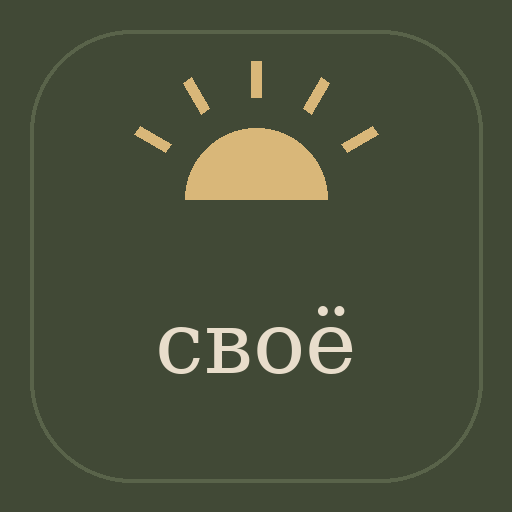
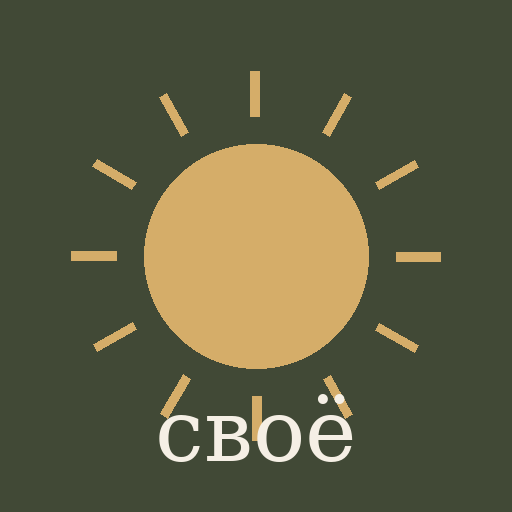
Add files via upload

diff --git a/index.html b/index.html
@@ -1,80 +1,31 @@
 <!doctype html>
 <html lang="ru">
 <head>
-  <meta charset="utf-8">
-  <meta name="viewport" content="width=device-width, initial-scale=1, viewport-fit=cover">
-  <meta name="theme-color" content="#414936">
-  <meta name="apple-mobile-web-app-capable" content="yes">
-  <meta name="apple-mobile-web-app-status-bar-style" content="black-translucent">
-  <meta name="apple-mobile-web-app-title" content="СВОЁ">
-  <link rel="manifest" href="manifest.webmanifest">
-  <link rel="apple-touch-icon" href="icons/icon-192.png">
-  <title>СВОЁ</title>
-  <style>
-    :root{--wine:#642F3D;--olive:#414936;--ochre:#A97835;--beige:#E8DDCB;--ivory:#F5EFE5;--ink:#302923;--muted:#81796f}
-    *{box-sizing:border-box} body{margin:0;background:var(--ivory);color:var(--ink);font-family:-apple-system,BlinkMacSystemFont,"Segoe UI",sans-serif}
-    header{background:var(--olive);color:var(--ivory);padding:calc(18px + env(safe-area-inset-top)) 20px 20px;border-radius:0 0 24px 24px}
-    .brand{font-family:Georgia,serif;font-size:34px;letter-spacing:.04em;margin:0}.tag{color:#e4d9c8;font-size:13px;margin-top:5px}
-    main{padding:18px 16px 100px;max-width:720px;margin:auto}.date{color:var(--muted);font-size:13px;margin:4px 2px 14px}
-    h2{font-family:Georgia,serif;font-size:25px;font-weight:500;margin:8px 0 14px}
-    h3{font-size:16px;margin:0 0 10px}.card{background:#fffaf2;border:1px solid #e9dfd1;border-radius:18px;padding:16px;margin:12px 0;box-shadow:0 3px 14px #34271a0a}
-    .muted{color:var(--muted);font-size:13px;line-height:1.45}.choices{display:flex;flex-wrap:wrap;gap:8px}
-    button,.chip{border:1px solid #d9cebf;background:#fffaf2;color:var(--ink);border-radius:999px;padding:10px 13px;font:inherit;font-size:13px}
-    button.selected{background:var(--wine);border-color:var(--wine);color:white}
-    .primary{background:var(--wine);color:white;border:0;font-weight:600;padding:12px 16px}
-    input{width:100%;border:1px solid #d9cebf;background:#fffaf2;border-radius:12px;padding:13px;font:inherit;font-size:15px;margin:8px 0}
-    .task{display:flex;align-items:center;gap:10px;padding:11px 0;border-bottom:1px solid #eee5d9}.task:last-child{border:0}
-    .task input{width:19px;height:19px;margin:0;accent-color:var(--wine)}.task.done span{text-decoration:line-through;color:#9b9388}
-    nav{position:fixed;bottom:0;left:0;right:0;background:#fffaf2;border-top:1px solid #e6dccf;padding:9px 8px calc(9px + env(safe-area-inset-bottom));display:flex;justify-content:space-around;gap:4px;z-index:3}
-    nav button{border:0;background:transparent;padding:7px 5px;color:#766d62;border-radius:12px;font-size:11px;display:flex;flex-direction:column;align-items:center;gap:4px}
-    nav button.active{color:var(--wine);background:#f1e6e2;font-weight:700}nav b{font-size:18px;font-weight:500}
-    .hidden{display:none}.section-intro{line-height:1.5}.sun{color:#d7b66f;font-size:22px;float:right}
-  </style>
-</head>
-<body>
-<header><span class="sun">☼</span><p class="brand">своё</p><div class="tag">Живи в своём ритме.</div></header>
-<main>
-  <section id="today">
-    <div class="date" id="todayDate"></div><h2>Мой день</h2>
-    <div class="card"><h3>Сколько у тебя сегодня сил?</h3><p class="muted">План начинается не со списка дел, а с внимания к себе.</p><div class="choices" id="energy">
-      <button data-v="Почти нет сил">Почти нет</button><button data-v="Мало сил">Мало</button><button data-v="Умеренно">Умеренно</button><button data-v="Хорошо">Хорошо</button><button data-v="Много сил">Много</button>
-    </div></div>
-    <div class="card"><h3>Что ты сейчас чувствуешь?</h3><div class="choices" id="mood">
-      <button data-v="Спокойствие">Спокойствие</button><button data-v="Радость">Радость</button><button data-v="Воодушевление">Воодушевление</button><button data-v="Нейтрально">Нейтрально</button><button data-v="Тревога">Тревога</button><button data-v="Грусть">Грусть</button><button data-v="Раздражение">Раздражение</button><button data-v="Опустошённость">Опустошённость</button><button data-v="Не могу определить">Не могу определить</button>
-    </div></div>
-    <div class="card"><h3>Твои дела</h3><div class="muted">Добавляй только то, что действительно важно сегодня. Отдых тоже имеет место.</div>
-      <form id="taskForm"><input id="taskInput" placeholder="Например, отправить заказ…" maxlength="100" required><button class="primary" type="submit">Добавить дело</button></form><div id="tasks"></div>
-    </div>
-    <div class="card" style="background:var(--olive);color:var(--ivory);border:0"><h3>И немного своего времени</h3><p class="section-intro">Тебе не нужно заслуживать отдых. Оставь в сегодняшнем дне место для того, что радует.</p></div>
-  </section>
-  <section id="calendar" class="hidden"><h2>Календарь</h2><div class="card section-intro">Здесь будут события, встречи и дела, привязанные ко времени. В этой первой сборке раздел пока подготовлен как основа.</div></section>
-  <section id="home" class="hidden"><h2>Дом</h2><div class="card section-intro">Уборка, готовка, покупки и хозяйство — гибкие дела, которые можно упрощать и переносить.</div></section>
-  <section id="health" class="hidden"><h2>Здоровье и движение</h2><div class="card section-intro">Прогулки, растяжка, йога и движение с учётом самочувствия.</div></section>
-  <section id="me" class="hidden"><h2>Время для себя</h2><div class="card" style="background:var(--olive);color:var(--ivory);border:0"><h3>Это время принадлежит тебе</h3><p>Чтение, рисование, прогулка для удовольствия, рукоделие или просто тишина.</p></div></section>
-  <section id="creative" class="hidden"><h2>Творчество</h2><div class="card section-intro">Твои идеи, творческие проекты и обучение.</div></section>
-  <section id="habits" class="hidden"><h2>Привычки</h2><div class="card section-intro">Небольшие повторяющиеся действия без наказания за пропуски.</div></section>
-  <section id="challenges" class="hidden"><h2>Мои челленджи</h2><div class="card section-intro">Челленджи можно облегчить или поставить на паузу. Пропуск не обнуляет прогресс.</div></section>
-  <section id="diary" class="hidden"><h2>Дневник</h2><div class="card"><textarea id="note" rows="5" style="width:100%;border:1px solid #d9cebf;border-radius:12px;padding:12px;font:inherit" placeholder="Что хочется сохранить сегодня?"></textarea><button class="primary" id="saveNote">Сохранить запись</button><p class="muted" id="noteStatus">Запись хранится на этом устройстве.</p></div></section>
-  <section id="alltasks" class="hidden"><h2>Мои задачи</h2><div class="card">Все задачи будут доступны здесь. Сейчас задачи можно добавлять на экране «Мой день».</div></section>
-</main>
-<nav>
-  <button class="active" data-page="today"><b>⌂</b>День</button><button data-page="calendar"><b>▦</b>Календарь</button><button data-page="home"><b>⌂</b>Дом</button><button data-page="me"><b>♡</b>Для себя</button><button data-page="alltasks"><b>☷</b>Задачи</button>
-</nav>
+<meta charset="utf-8"><meta name="viewport" content="width=device-width,initial-scale=1,viewport-fit=cover"><meta name="theme-color" content="#414936"><meta name="description" content="СВОЁ — личная система организации жизни. Живи в своём ритме."><link rel="manifest" href="manifest.webmanifest"><link rel="apple-touch-icon" href="icon-192.png"><title>СВОЁ — Живи в своём ритме</title>
+<style>
+:root{--olive:#414936;--burgundy:#642f3d;--ochre:#a97835;--beige:#e8ddcb;--ivory:#f5efe5;--ink:#292b25;--muted:#77766d;--line:#ddd3c3;--paper:#fbf8f2;--shadow:0 8px 28px #302a2010}*{box-sizing:border-box}body{margin:0;background:var(--paper);color:var(--ink);font-family:-apple-system,BlinkMacSystemFont,"Segoe UI",sans-serif;font-size:16px;line-height:1.45}button,input,select,textarea{font:inherit}button{cursor:pointer}.app{max-width:760px;margin:auto;min-height:100vh;padding-bottom:92px}.top{padding:22px 22px 12px;background:linear-gradient(145deg,var(--olive),#30382c);color:var(--ivory);border-radius:0 0 26px 26px}.brand{display:flex;align-items:center;gap:12px}.sun{font-size:30px;color:#d5ad69}.brandname{font-family:Georgia,serif;font-size:30px;letter-spacing:.04em}.tagline{font-family:Georgia,serif;font-style:italic;color:#e8ddcb;margin:3px 0 0 43px;font-size:15px}.date{font-size:13px;color:#e8ddcbbd;margin-top:18px;letter-spacing:.04em}.content{padding:18px 18px 26px}.page-title{font-family:Georgia,serif;font-weight:500;font-size:29px;margin:5px 0 5px;color:var(--olive)}.subtle{color:var(--muted);font-size:14px}.card{background:#fffdf9;border:1px solid var(--line);border-radius:18px;padding:16px;margin:14px 0;box-shadow:var(--shadow)}.card h2{font:500 20px Georgia,serif;color:var(--olive);margin:0 0 8px}.card h3{font-size:16px;margin:0 0 9px}.eyebrow{font-size:11px;letter-spacing:.13em;text-transform:uppercase;color:var(--ochre);font-weight:700}.chips{display:flex;flex-wrap:wrap;gap:8px}.chip{border:1px solid var(--line);border-radius:999px;padding:8px 12px;background:#fff;color:var(--ink);font-size:14px}.chip.active{background:var(--olive);border-color:var(--olive);color:white}.row{display:flex;align-items:center;justify-content:space-between;gap:12px}.btn{border:0;border-radius:12px;padding:11px 15px;background:var(--olive);color:white;font-weight:600}.btn.secondary{background:#eee8dc;color:var(--olive);border:1px solid var(--line)}.btn.burgundy{background:var(--burgundy)}.btn.small{padding:7px 10px;font-size:13px}.input,select,textarea{width:100%;border:1px solid var(--line);background:#fffdf9;border-radius:11px;padding:12px;color:var(--ink);margin:5px 0 10px}.fieldlabel{display:block;font-size:13px;color:var(--muted);margin-top:8px}.grid2{display:grid;grid-template-columns:1fr 1fr;gap:10px}.task{display:flex;gap:10px;align-items:flex-start;padding:11px 0;border-bottom:1px solid #eee8dd}.task:last-child{border:0}.check{width:21px;height:21px;accent-color:var(--olive);margin-top:2px}.tasktitle{font-weight:600}.taskmeta{font-size:12px;color:var(--muted);margin-top:2px}.done .tasktitle{text-decoration:line-through;color:#999}.pill{font-size:11px;border-radius:99px;padding:3px 8px;background:#eee8dc;color:var(--olive);white-space:nowrap}.timeline{border-left:2px solid var(--line);margin:12px 0 0 8px;padding-left:15px}.timeitem{position:relative;padding:0 0 16px}.timeitem:before{content:"";position:absolute;left:-22px;top:5px;width:10px;height:10px;border-radius:50%;background:var(--ochre);border:2px solid var(--paper)}.empty{padding:16px;text-align:center;color:var(--muted);font-size:14px}.nav{position:fixed;z-index:5;bottom:0;left:0;right:0;background:#fbf8f2f2;backdrop-filter:blur(14px);border-top:1px solid var(--line);display:flex;justify-content:center;padding:8px 5px calc(8px + env(safe-area-inset-bottom));gap:2px}.nav button{border:0;background:transparent;color:var(--muted);font-size:10px;display:flex;flex-direction:column;align-items:center;gap:3px;padding:6px 10px;border-radius:12px;min-width:62px}.nav button span:first-child{font-size:20px}.nav button.active{color:var(--burgundy);background:#642f3d10;font-weight:700}.tabs{display:flex;gap:7px;flex-wrap:wrap;margin:12px 0}.tabs button{border:1px solid var(--line);background:transparent;border-radius:9px;padding:8px 11px;color:var(--muted);font-size:13px}.tabs button.active{background:var(--beige);color:var(--ink);border-color:var(--beige)}.modalback{position:fixed;inset:0;background:#16181277;z-index:10;display:flex;align-items:flex-end;justify-content:center}.modal{background:var(--paper);border-radius:22px 22px 0 0;padding:20px;width:min(100%,700px);max-height:90vh;overflow:auto}.modal h2{font:500 24px Georgia,serif;color:var(--olive);margin:0 0 12px}.close{border:0;background:#eee8dc;border-radius:50%;width:34px;height:34px}.hidden{display:none!important}.notice{background:#f0e8d9;border-left:3px solid var(--ochre);padding:12px;border-radius:8px;font-size:14px}.week{display:grid;grid-template-columns:repeat(7,1fr);gap:5px;text-align:center}.day{border:1px solid var(--line);border-radius:10px;padding:9px 2px;font-size:12px;background:#fff}.day.today{background:var(--olive);color:white;border-color:var(--olive)}.day small{display:block;color:inherit;opacity:.7}.sectionlink{display:flex;justify-content:space-between;align-items:center;padding:14px 2px;border-bottom:1px solid var(--line);color:var(--ink);text-decoration:none}.sectionlink:last-child{border:0}.footer-note{text-align:center;color:var(--muted);font:italic 13px Georgia,serif;margin:24px 0 8px}
+@media(min-width:600px){.content{padding:24px 28px}.top{padding:26px 30px}.modalback{align-items:center}.modal{border-radius:22px}}
+</style></head><body><div class="app"><header class="top"><div class="brand"><span class="sun">☼</span><span class="brandname">своё</span></div><div class="tagline">Живи в своём ритме.</div><div class="date" id="todayDate"></div></header><main class="content" id="view"></main><nav class="nav" id="nav"><button data-page="day" class="active"><span>☼</span><span>Мой день</span></button><button data-page="calendar"><span>▦</span><span>Календарь</span></button><button data-page="tasks"><span>☷</span><span>Мои задачи</span></button><button data-page="life"><span>❧</span><span>Моя жизнь</span></button><button data-page="diary"><span>✎</span><span>Дневник</span></button></nav></div><div id="modalRoot"></div>
 <script>
-const $=s=>document.querySelector(s), $$=s=>[...document.querySelectorAll(s)];
-const store={get(k,d){try{return JSON.parse(localStorage.getItem('svoe_'+k))??d}catch{return d}},set(k,v){localStorage.setItem('svoe_'+k,JSON.stringify(v))}};
-const d=new Date();$('#todayDate').textContent=new Intl.DateTimeFormat('ru-RU',{weekday:'long',day:'numeric',month:'long'}).format(d);
-function restoreChoice(id,key){const v=store.get(key,'');$(`#${id}`).querySelectorAll('button').forEach(b=>b.classList.toggle('selected',b.dataset.v===v))}
-function wireChoice(id,key){$(`#${id}`).addEventListener('click',e=>{if(e.target.dataset.v){store.set(key,e.target.dataset.v);restoreChoice(id,key)}});restoreChoice(id,key)}
-wireChoice('energy','energy');wireChoice('mood','mood');
-let tasks=store.get('tasks',[]);
-function renderTasks(){const el=$('#tasks');el.innerHTML='';tasks.forEach((t,i)=>{const row=document.createElement('label');row.className='task'+(t.done?' done':'');const cb=document.createElement('input');cb.type='checkbox';cb.checked=t.done;cb.addEventListener('change',()=>{tasks[i].done=cb.checked;store.set('tasks',tasks);renderTasks()});const span=document.createElement('span');span.textContent=t.text;row.append(cb,span);el.append(row)})}
-renderTasks();
-$('#taskForm').addEventListener('submit',e=>{e.preventDefault();const v=$('#taskInput').value.trim();if(!v)return;tasks.push({text:v,done:false});store.set('tasks',tasks);$('#taskInput').value='';renderTasks()});
-$('#saveNote').addEventListener('click',()=>{store.set('note',$('#note').value);$('#noteStatus').textContent='Запись сохранена.'});
-$('#note').value=store.get('note','');
-function show(page){$$('main section').forEach(s=>s.classList.toggle('hidden',s.id!==page));$$('nav button').forEach(b=>b.classList.toggle('active',b.dataset.page===page));window.scrollTo(0,0)}
-$$('nav button').forEach(b=>b.addEventListener('click',()=>show(b.dataset.page)));
-if('serviceWorker' in navigator)window.addEventListener('load',()=>navigator.serviceWorker.register('./sw.js').catch(()=>{}));
-</script>
-</body></html>
+const KEY='svoe_v2_state';const defaults={energy:'',mood:'',tasks:[],notes:[],viewMode:'timeline',closedState:false,evening:{}};let state={...defaults,...JSON.parse(localStorage.getItem(KEY)||'{}')};let page='day',lifeSection='';const $=s=>document.querySelector(s);const save=()=>localStorage.setItem(KEY,JSON.stringify(state));const esc=s=>String(s??'').replace(/[&<>"']/g,c=>({'&':'&amp;','<':'&lt;','>':'&gt;','"':'&quot;',"'":'&#39;'}[c]));const today=()=>new Date().toISOString().slice(0,10);const dateLabel=()=>new Intl.DateTimeFormat('ru-RU',{weekday:'long',day:'numeric',month:'long',year:'numeric'}).format(new Date());$('#todayDate').textContent=dateLabel();
+function setPage(p){page=p;document.querySelectorAll('.nav button').forEach(b=>b.classList.toggle('active',b.dataset.page===p));render()}
+$('#nav').addEventListener('click',e=>{const b=e.target.closest('button[data-page]');if(b)setPage(b.dataset.page)});
+function taskCard(t){return `<div class="task ${t.done?'done':''}"><input class="check" type="checkbox" data-done="${t.id}" ${t.done?'checked':''}><div style="flex:1"><div class="row"><span class="tasktitle">${esc(t.title)}</span><span class="pill">${esc(t.priority||'По возможности')}</span></div><div class="taskmeta">${esc(t.category||'Без категории')}${t.date?' · '+t.date:''}${t.time?' · '+t.time:''}${t.duration?' · '+t.duration+' мин.':''}</div></div><button class="btn secondary small" data-edit="${t.id}">Изменить</button></div>`}
+function dayTasks(){return state.tasks.filter(t=>t.date===today()).sort((a,b)=>(a.time||'99:99').localeCompare(b.time||'99:99'))}
+function renderDay(){let tasks=dayTasks(),open=tasks.filter(t=>!t.done);return `<div class="eyebrow">ТВОЙ ДЕНЬ</div><h1 class="page-title">Сегодня</h1><p class="subtle">Пусть планы поддерживают тебя, а не наоборот.</p>
+${!state.closedState&&!state.energy&&!state.mood?`<div class="card"><div class="row"><h2>Как ты сегодня?</h2><button class="close" aria-label="Закрыть" id="closeState">×</button></div><p class="subtle">Если захочешь, отметь своё состояние. Это необязательно.</p><h3>Сколько у тебя сил?</h3><div class="chips">${['Почти нет сил','Мало сил','Умеренно','Хорошо','Много сил'].map(x=>`<button class="chip ${state.energy===x?'active':''}" data-energy="${x}">${x}</button>`).join('')}</div><h3 style="margin-top:15px">Что ты сейчас чувствуешь?</h3><div class="chips">${['Спокойствие','Радость','Воодушевление','Нейтральное состояние','Тревога','Грусть','Подавленность','Раздражение','Опустошённость','Растерянность','Не могу определить'].map(x=>`<button class="chip ${state.mood===x?'active':''}" data-mood="${x}">${x}</button>`).join('')}</div></div>`:''}
+${state.energy||state.mood?`<div class="card"><div class="row"><div><div class="eyebrow">МОЁ СОСТОЯНИЕ</div><strong>${esc(state.energy||'Не отмечено')}</strong><div class="subtle">${esc(state.mood||'Настроение не отмечено')}</div></div><button class="btn secondary small" id="editState">Изменить</button></div></div>`:''}
+<div class="card"><div class="row"><h2>План на сегодня</h2><div class="tabs" style="margin:0"><button data-mode="timeline" class="${state.viewMode==='timeline'?'active':''}">По времени</button><button data-mode="list" class="${state.viewMode==='list'?'active':''}">Списком</button></div></div><div class="row"><span class="subtle">${open.length} незавершённых дел</span><button class="btn small" id="quickAdd">＋ Добавить дело</button></div>${tasks.length?(state.viewMode==='list'?tasks.map(taskCard).join(''):`<div class="timeline">${tasks.map(t=>`<div class="timeitem">${t.time?`<div class="eyebrow">${esc(t.time)}</div>`:''}${taskCard(t)}</div>`).join('')}</div>`):`<div class="empty">На сегодня пока ничего не запланировано. Можно оставить день свободным.</div>`}</div>
+<div class="card"><div class="row"><h2>Небольшая пауза</h2><span class="pill">без обязательств</span></div><p class="subtle">Оставь в дне немного пространства для отдыха и того, что тебе сейчас нужно.</p><button class="btn secondary small" id="addRest">Добавить время для отдыха</button></div>
+<div class="card"><div class="eyebrow">ВЕЧЕР</div><h2>Завершение дня</h2><p class="subtle">Можно подвести итоги здесь или перейти к записи в дневнике. А можно ничего не делать.</p><div class="chips"><button class="btn secondary" id="eveningSummary">Итог дня</button><button class="btn secondary" id="toDiary">Открыть дневник</button></div></div>`}
+function renderTasks(){let cats=[...new Set(state.tasks.map(t=>t.category||'Без категории'))];return `<div class="eyebrow">ТВОИ ДЕЛА</div><h1 class="page-title">Мои задачи</h1><p class="subtle">Здесь собраны все дела — в том числе те, которым пока не назначена дата.</p><div class="row"><span></span><button class="btn" id="fullAdd">＋ Новая задача</button></div>${cats.length?cats.map(c=>`<div class="card"><h2>${esc(c)}</h2>${state.tasks.filter(t=>(t.category||'Без категории')===c).sort((a,b)=>['Обязательно','Желательно','По возможности'].indexOf(a.priority)-['Обязательно','Желательно','По возможности'].indexOf(b.priority)).map(taskCard).join('')}</div>`).join(''):`<div class="card empty">Пока здесь пусто. Добавь задачу — дату можно назначить позже.</div>`}`}
+function renderCalendar(){let d=new Date(),first=new Date(d.getFullYear(),d.getMonth(),1),days=new Date(d.getFullYear(),d.getMonth()+1,0).getDate(),offset=(first.getDay()+6)%7;return `<div class="eyebrow">ПЛАНЫ И СОБЫТИЯ</div><h1 class="page-title">Календарь</h1><div class="card"><h2>${new Intl.DateTimeFormat('ru-RU',{month:'long',year:'numeric'}).format(d)}</h2><div class="week">${['Пн','Вт','Ср','Чт','Пт','Сб','Вс'].map(x=>`<div class="subtle">${x}</div>`).join('')}${Array(offset).fill('<div></div>').join('')}${Array.from({length:days},(_,i)=>{let n=i+1,ds=`${d.getFullYear()}-${String(d.getMonth()+1).padStart(2,'0')}-${String(n).padStart(2,'0')}`,count=state.tasks.filter(t=>t.date===ds).length;return `<div class="day ${ds===today()?'today':''}">${n}<small>${count?'•':''}</small></div>`}).join('')}</div></div><div class="card"><h2>Задачи с датой</h2>${state.tasks.filter(t=>t.date).sort((a,b)=>(a.date+a.time).localeCompare(b.date+b.time)).map(taskCard).join('')||'<div class="empty">Задач с назначенной датой пока нет.</div>'}</div>`}
+function renderLife(){let sections=[['Дом','Идеи для дома, семейные дела и покупки'],['Здоровье и движение','Движение, забота о себе и восстановление'],['Привычки','Повторяющиеся действия в своём ритме'],['Мои челленджи','Личные и семейные цели без давления']];if(lifeSection){let desc=sections.find(x=>x[0]===lifeSection)?.[1]||'';return `<button class="btn secondary small" id="lifeBack">← Моя жизнь</button><h1 class="page-title">${esc(lifeSection)}</h1><p class="subtle">${esc(desc)}</p><div class="card"><h2>${esc(lifeSection)}</h2><p class="subtle">Этот модуль будет развиваться следующим этапом. Здесь появятся личные записи и инструменты раздела, без обязательного заполнения.</p></div>`}return `<div class="eyebrow">ЛИЧНОЕ ПРОСТРАНСТВО</div><h1 class="page-title">Моя жизнь</h1><p class="subtle">Небольшие опоры для повседневной жизни.</p><div class="card">${sections.map(([n,d])=>`<a class="sectionlink" href="#" data-life="${n}"><div><strong>${n}</strong><div class="subtle">${d}</div></div><span>›</span></a>`).join('')}</div>`}
+function renderDiary(){return `<div class="eyebrow">ЛИЧНОЕ ПРОСТРАНСТВО</div><h1 class="page-title">Дневник</h1><p class="subtle">Место для мыслей, воспоминаний и маленьких открытий.</p><div class="card"><h2>Что хочется сохранить?</h2><textarea id="diaryText" rows="5" placeholder="Запиши то, что важно именно сегодня…"></textarea><button class="btn" id="saveDiary">Сохранить запись</button></div>${state.notes.slice().reverse().map(n=>`<div class="card"><div class="eyebrow">${esc(n.date)}</div><p style="white-space:pre-wrap">${esc(n.text)}</p></div>`).join('')}`}
+function render(){let html=page==='day'?renderDay():page==='tasks'?renderTasks():page==='calendar'?renderCalendar():page==='life'?renderLife():renderDiary();$('#view').innerHTML=html;bind()}
+function modal(title,body){$('#modalRoot').innerHTML=`<div class="modalback" id="backdrop"><div class="modal"><div class="row"><h2>${title}</h2><button class="close" id="modalClose">×</button></div>${body}</div></div>`;$('#modalClose').onclick=closeModal;$('#backdrop').onclick=e=>{if(e.target.id==='backdrop')closeModal()}}
+function closeModal(){$('#modalRoot').innerHTML=''}
+function taskForm(t={}){modal(t.id?'Изменить задачу':'Новая задача',`<form id="taskForm"><label class="fieldlabel">Название дела *</label><input class="input" name="title" required value="${esc(t.title||'')}" placeholder="Например, подготовить материалы"><div class="grid2"><div><label class="fieldlabel">Категория</label><input class="input" name="category" value="${esc(t.category||'')}" placeholder="Личное, работа…"></div><div><label class="fieldlabel">Приоритет</label><select name="priority"><option ${t.priority==='Обязательно'?'selected':''}>Обязательно</option><option ${t.priority==='Желательно'?'selected':''}>Желательно</option><option ${!t.priority||t.priority==='По возможности'?'selected':''}>По возможности</option></select></div><div><label class="fieldlabel">Дата</label><input class="input" type="date" name="date" value="${esc(t.date||'')}"></div><div><label class="fieldlabel">Время</label><input class="input" type="time" name="time" value="${esc(t.time||'')}"></div><div><label class="fieldlabel">Длительность, мин.</label><input class="input" type="number" min="0" name="duration" value="${esc(t.duration||'')}"></div></div><label class="fieldlabel">Заметка</label><textarea class="input" name="note" rows="2">${esc(t.note||'')}</textarea><button class="btn" style="width:100%" type="submit">Сохранить задачу</button>${t.id?'<button class="btn secondary" style="width:100%;margin-top:8px" type="button" id="deleteTask">Удалить задачу</button>':''}</form>`);$('#taskForm').onsubmit=e=>{e.preventDefault();let f=new FormData(e.target),obj={id:t.id||Date.now(),title:f.get('title').trim(),category:f.get('category').trim()||'Без категории',priority:f.get('priority'),date:f.get('date'),time:f.get('time'),duration:f.get('duration'),note:f.get('note'),done:t.done||false};if(t.id)state.tasks=state.tasks.map(x=>x.id===t.id?obj:x);else state.tasks.push(obj);save();closeModal();render()};if(t.id)$('#deleteTask').onclick=()=>{if(confirm('Удалить задачу?')){state.tasks=state.tasks.filter(x=>x.id!==t.id);save();closeModal();render()}}}
+function bind(){document.querySelectorAll('[data-energy]').forEach(b=>b.onclick=()=>{state.energy=b.dataset.energy;save();render()});document.querySelectorAll('[data-mood]').forEach(b=>b.onclick=()=>{state.mood=b.dataset.mood;save();render()});$('#closeState')?.addEventListener('click',()=>{state.closedState=true;save();render()});$('#editState')?.addEventListener('click',()=>{state.closedState=false;state.energy='';state.mood='';save();render()});$('#quickAdd')?.addEventListener('click',()=>modal('Быстрое добавление',`<form id="quickForm"><label class="fieldlabel">Что нужно сделать?</label><input class="input" name="title" required autofocus placeholder="Название дела"><p class="subtle">Задача сохранится в «Мои задачи» без даты. Когда будешь готова, назначишь её.</p><button class="btn" style="width:100%">Сохранить</button><button type="button" class="btn secondary" id="openFull" style="width:100%;margin-top:8px">Заполнить все параметры</button></form>`));$('#openFull')?.addEventListener('click',()=>{let title=$('#quickForm [name=title]').value;closeModal();taskForm({title})});$('#quickForm')?.addEventListener('submit',e=>{e.preventDefault();state.tasks.push({id:Date.now(),title:e.target.title.value.trim(),category:'Без категории',priority:'По возможности',date:'',time:'',done:false});save();closeModal();render()});$('#fullAdd')?.addEventListener('click',()=>taskForm());document.querySelectorAll('[data-edit]').forEach(b=>b.onclick=()=>taskForm(state.tasks.find(t=>t.id==b.dataset.edit)));document.querySelectorAll('[data-done]').forEach(b=>b.onchange=()=>{let t=state.tasks.find(t=>t.id==b.dataset.done);if(t)t.done=b.checked;save();render()});document.querySelectorAll('[data-mode]').forEach(b=>b.onclick=()=>{state.viewMode=b.dataset.mode;save();render()});$('#addRest')?.addEventListener('click',()=>taskForm({title:'Время для отдыха',category:'Здоровье и движение',priority:'По возможности',date:today()}));$('#toDiary')?.addEventListener('click',()=>setPage('diary'));$('#eveningSummary')?.addEventListener('click',()=>{let done=dayTasks().filter(t=>t.done).length,unfinished=dayTasks().filter(t=>!t.done).length;modal('Итог дня',`<div class="notice">Сегодня выполнено дел: <strong>${done}</strong>. Осталось незавершённых: <strong>${unfinished}</strong>. Это просто сводка, не оценка дня.</div><label class="fieldlabel">Как прошёл день?</label><textarea class="input" id="eveningNote" rows="4" placeholder="Можно добавить пару слов…">${esc(state.evening[today()]||'')}</textarea><button class="btn" id="saveEvening" style="width:100%">Сохранить итог</button>`);$('#saveEvening').onclick=()=>{state.evening[today()]=$('#eveningNote').value;save();closeModal()}});$('#saveDiary')?.addEventListener('click',()=>{let text=$('#diaryText').value.trim();if(text){state.notes.push({date:today(),text});save();render()}});document.querySelectorAll('[data-life]').forEach(a=>a.onclick=e=>{e.preventDefault();lifeSection=a.dataset.life;render()});$('#lifeBack')?.addEventListener('click',()=>{lifeSection='';render()})}
+render();if('serviceWorker'in navigator)window.addEventListener('load',()=>navigator.serviceWorker.register('./sw.js').catch(()=>{}));
+</script></body></html>

diff --git a/sw.js b/sw.js
@@ -1,5 +1,1 @@
-const CACHE='svoe-v1';
-const FILES=['./','./index.html','./manifest.webmanifest','./icons/icon-192.png','./icons/icon-512.png'];
-self.addEventListener('install',e=>e.waitUntil(caches.open(CACHE).then(c=>c.addAll(FILES))));
-self.addEventListener('activate',e=>e.waitUntil(caches.keys().then(keys=>Promise.all(keys.filter(k=>k!==CACHE).map(k=>caches.delete(k))))));
-self.addEventListener('fetch',e=>{if(e.request.method==='GET')e.respondWith(caches.match(e.request).then(r=>r||fetch(e.request)))});
+const CACHE='svoe-v2-cache-1';const FILES=['./','./index.html','./manifest.webmanifest','./icon-192.png','./icon-512.png'];self.addEventListener('install',e=>e.waitUntil(caches.open(CACHE).then(c=>c.addAll(FILES))));self.addEventListener('activate',e=>e.waitUntil(caches.keys().then(keys=>Promise.all(keys.filter(k=>k!==CACHE).map(k=>caches.delete(k))))));self.addEventListener('fetch',e=>e.respondWith(caches.match(e.request).then(r=>r||fetch(e.request).then(resp=>{const copy=resp.clone();caches.open(CACHE).then(c=>c.put(e.request,copy));return resp}).catch(()=>caches.match('./index.html')))));

diff --git a/README.md b/README.md
@@ -1,26 +1,7 @@
-# СВОЁ — стартовый PWA-проект
+# СВОЁ — первая обновлённая сборка
 
-Это первая техническая заготовка устанавливаемой веб-версии приложения.
+Загрузка в корень GitHub Pages: `index.html`, `manifest.webmanifest`, `sw.js`, `icon-192.png`, `icon-512.png`.
 
-## Что уже работает
-- выбор физического ресурса и эмоционального состояния;
-- добавление и отметка задач;
-- сохранение задач, выбора состояния и заметки дневника в localStorage;
-- базовая навигация по разделам;
-- PWA-манифест и service worker для офлайн-кэша.
+Функции этой сборки: пять разделов навигации; два режима списка дел на сегодня; добровольная отметка энергии и настроения; быстрое и полное добавление задач; задачи без даты остаются в «Моих задачах»; календарный обзор; дневник и простая вечерняя сводка; локальное сохранение в браузере.
 
-## Важно
-Это ранний прототип, а не готовый продукт. Данные пока хранятся локально в браузере на этом устройстве. Нет облачной синхронизации, резервного копирования, уведомлений и полноценной логики адаптации нагрузки.
-
-## Как установить на iPhone
-1. Разместить содержимое папки на HTTPS-хостинге.
-2. Открыть опубликованный адрес именно в Safari.
-3. Нажать «Поделиться» → «На экран Домой».
-4. Включить «Открывать как веб-приложение», если этот переключатель доступен, затем нажать «Добавить».
-
-## Следующие этапы
-1. Доработать дизайн по утверждённому образу: олива, бургунди, охра, айвори; знак с солнцем.
-2. Реализовать календарь, категории задач, приоритеты и гибкое расписание.
-3. Реализовать правила адаптации плана по ресурсу.
-4. Добавить привычки, челленджи, дневник и резервное копирование.
-5. При необходимости перенести интерфейс в React Native / Expo и собирать iOS в облаке.
+Важно: это ранний прототип. Разделы «Моя жизнь» пока являются каркасом. Данные этой версии хранятся локально в браузере. Удаление данных сайта или очистка хранилища браузера может их удалить. Резервное копирование, Face ID, полноценные повторения, уведомления и PDF-экспорт ещё не реализованы.
